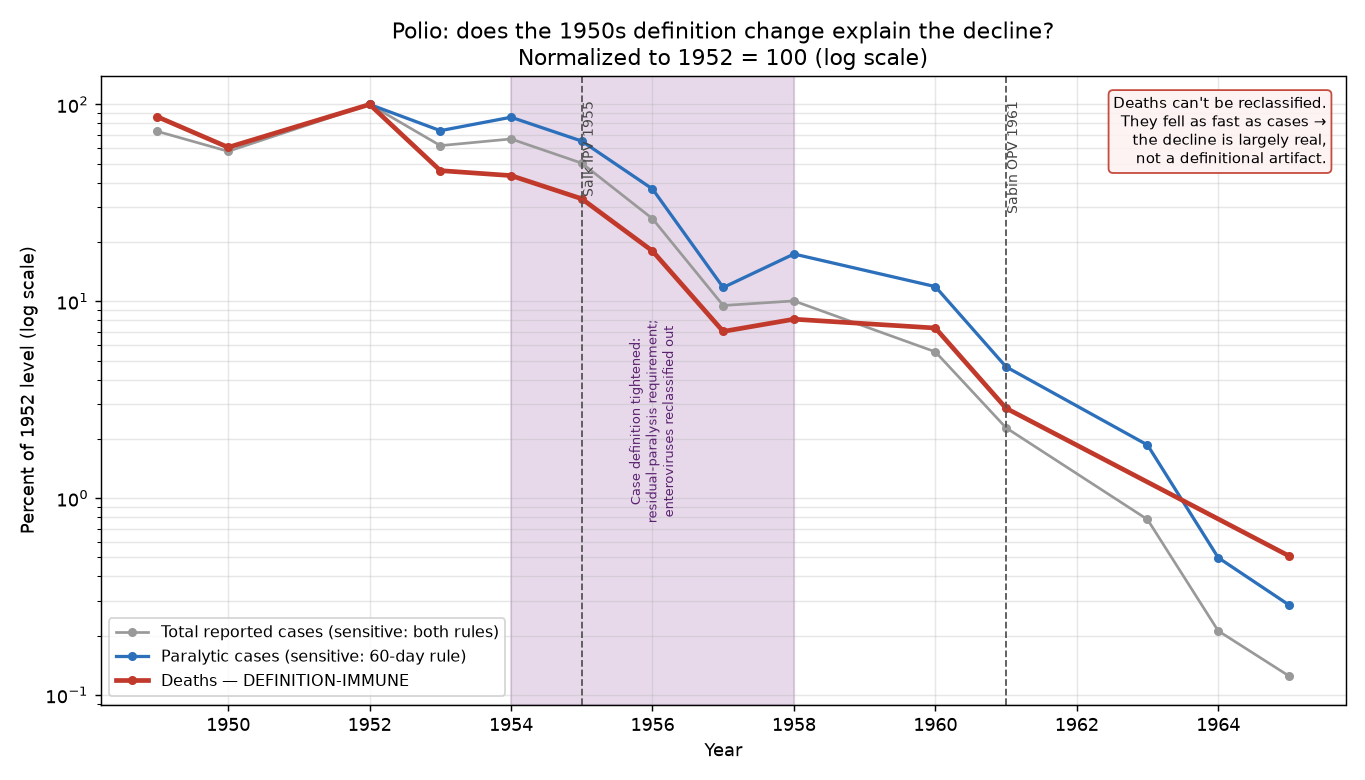
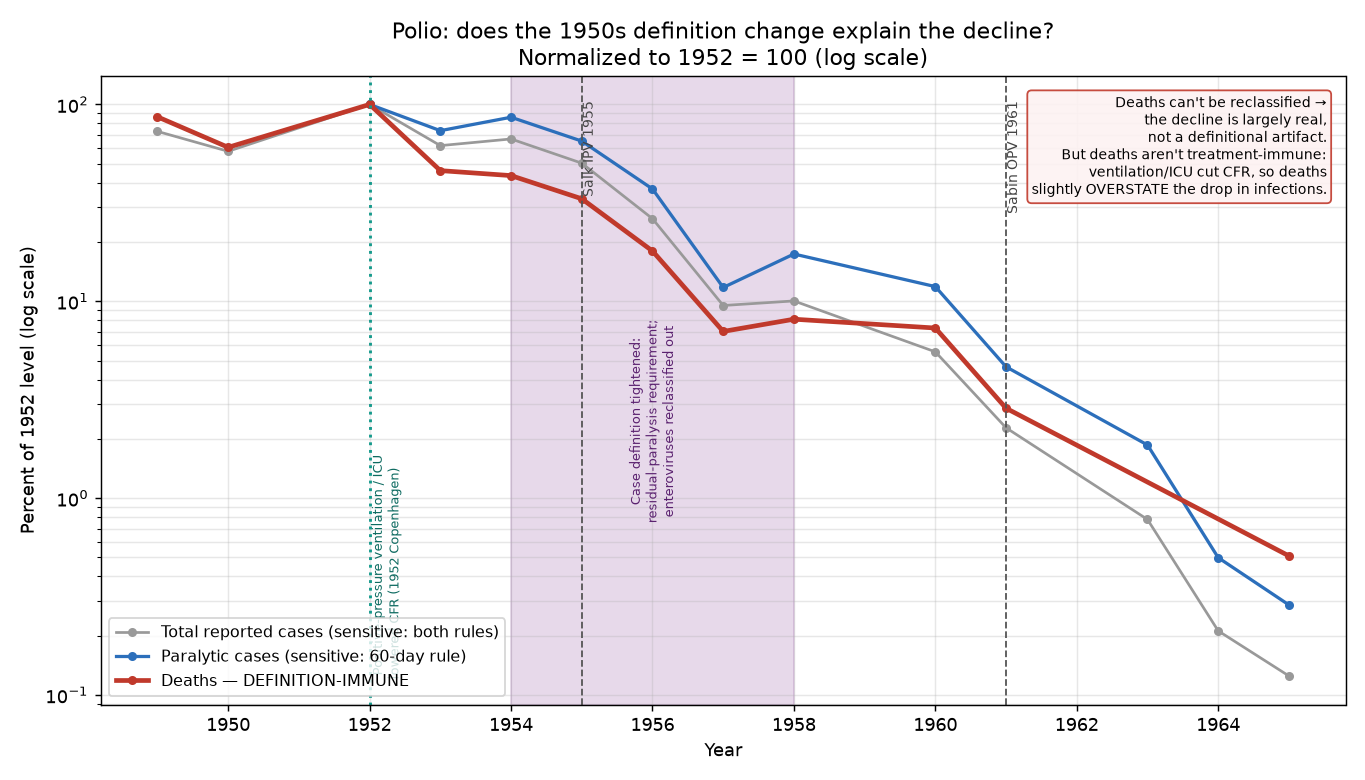
Add medical treatment (ventilation/ICU) as a driver of falling polio deaths
- Treatment milestone marker (1952 positive-pressure ventilation / first ICUs)
  on polio deaths and definition-effect charts
- README 1.5/1.2b: better critical care lowered CFR, an independent reason deaths
  fell; deaths are immune to reclassification but NOT to treatment, so they
  overstate the decline in infections (opposite-direction confounder)
- Updated dashboard caption and final "strongly supported" conclusions

Changed region(s): [[0.7385, 0.0923, 0.9846, 0.2769], [0.2769, 0.5846, 0.3077, 0.8]]

diff --git a/docs/index.html b/docs/index.html
@@ -101,8 +101,12 @@
       deaths fall as fast as — or faster than — paralytic cases, and the
       case-fatality rate does <em>not</em> jump. That means the definition change
       is real but accounts for only a <strong>minority</strong> of the decline;
-      the bulk is genuine. (It still cannot, by itself, split the real decline
-      between vaccine and other factors at the 1955 inflection — see the
+      the bulk is genuine. <strong>One caveat:</strong> deaths aren't
+      treatment-immune — <strong>positive-pressure ventilation / the first ICUs
+      (1952)</strong> cut the fatality rate, so the death decline partly reflects
+      better care and slightly overstates the fall in infections. (Even so, this
+      cannot by itself split the real decline between vaccine and other factors at
+      the 1955 inflection — see the
       <a href="https://github.com/markbabbe/us-disease-trends-analysis/blob/main/README.md#12b-capturing-the-effect-of-the-polio-definition-change">README write-up</a>.)</p>
     <img src="polio_definition_effect.png" alt="Polio definition-change effect: normalized cases vs definition-immune deaths"
          style="width:100%;border-radius:8px;display:block;" />

diff --git a/scripts/generate_charts.py b/scripts/generate_charts.py
@@ -83,6 +83,20 @@ def add_definition_marker(ax, disease):
             fontsize=7, color="#5b2270", transform=trans, zorder=5)
 
 
+# Treatment milestones that lowered case fatality independent of incidence.
+TREATMENT = {
+    "polio": [(1952, "Positive-pressure ventilation / ICU\nlowered CFR (1952 Copenhagen)")],
+}
+
+
+def add_treatment_marker(ax, disease):
+    trans = ax.get_xaxis_transform()
+    for yr, label in TREATMENT.get(disease, []):
+        ax.axvline(yr, color="#159a8c", linestyle=":", linewidth=1.6)
+        ax.text(yr, 0.04, " " + label, rotation=90, ha="left", va="bottom",
+                fontsize=7, color="#0e6b61", transform=trans, zorder=5)
+
+
 def drop_zeros(yrs, vals):
     """Log scale cannot show zeros; drop those points."""
     pairs = [(y, v) for y, v in zip(yrs, vals) if v and v > 0]
@@ -140,6 +154,7 @@ def deaths_chart(disease, rows, title):
     ax.grid(True, alpha=0.3)
     add_vaccine_lines(ax, disease)
     add_definition_marker(ax, disease)
+    add_treatment_marker(ax, disease)
     fig.tight_layout()
     p = os.path.join(OUT, f"{disease}_deaths.png")
     fig.savefig(p, dpi=130)
@@ -312,6 +327,7 @@ def polio_definition_effect():
                 label=label, markersize=4, linewidth=lw)
     ax.set_yscale("log")
     add_definition_marker(ax, "polio")
+    add_treatment_marker(ax, "polio")
     for yr, lab in [(1955, "Salk IPV"), (1961, "Sabin OPV")]:
         ax.axvline(yr, color="#555", linestyle="--", linewidth=1)
         ax.text(yr, 0.96, f" {lab} {yr}", rotation=90, va="top", fontsize=8,
@@ -323,8 +339,8 @@ def polio_definition_effect():
     ax.grid(True, which="both", alpha=0.3)
     ax.legend(loc="lower left", fontsize=9)
     ax.text(0.985, 0.97,
-            "Deaths can't be reclassified.\nThey fell as fast as cases →\nthe decline is largely real,\nnot a definitional artifact.",
-            transform=ax.transAxes, ha="right", va="top", fontsize=8.5,
+            "Deaths can't be reclassified →\nthe decline is largely real,\nnot a definitional artifact.\nBut deaths aren't treatment-immune:\nventilation/ICU cut CFR, so deaths\nslightly OVERSTATE the drop in infections.",
+            transform=ax.transAxes, ha="right", va="top", fontsize=8,
             bbox=dict(boxstyle="round", fc="#fdf2f2", ec="#c0392b", alpha=0.9))
     fig.tight_layout()
     p = os.path.join(OUT, "polio_definition_effect.png")

diff --git a/README.md b/README.md
@@ -172,6 +172,15 @@ Two observations that *constrain* the artifact:
   definition. The decisive evidence for a vaccine effect is the *sustained* fall
   to near-zero through the 1960s, which neither epidemic cycling nor a one-time
   definition change explains.
+- **Honest limitation #3 (deaths aren't treatment-immune):** the death anchor
+  rules out a *reclassification* artifact, but deaths are still lowered by
+  **improved treatment** (positive-pressure ventilation / ICU after 1952; see
+  §1.5). That is precisely *why* deaths fell slightly faster than paralytic cases
+  here — better critical care, plus 1952 being an unusually lethal epidemic year.
+  The implication: **deaths somewhat overstate the decline in true infections**,
+  the opposite-direction confounder to the case-definition change. Reading cases
+  and deaths *together*, with both confounders in mind, is the only honest
+  approach.
 - **Not determinable:** a precise percentage decomposition ("X% definition, Y%
   vaccine, Z% epidemic variation") cannot be recovered from these aggregate
   series.
@@ -204,11 +213,19 @@ clean age breakdowns needed to do this rigorously.
   [`charts/polio_deaths.png`](charts/polio_deaths.png)).
 - **Paralysis with residual deficit:** the clinical hallmark; tracked closely
   with deaths.
-- **Case fatality rate:** paralytic polio CFR was roughly **5–10%** (higher for
-  bulbar disease), and itself improved with the advent of mechanical ventilation
-  (the "iron lung," 1930s onward) and intensive respiratory care — i.e., *better
-  treatment lowered CFR even before vaccination*, an important confounder when
-  comparing severity across eras.
+- **Case fatality rate:** paralytic polio CFR was roughly **5–10%** (much higher
+  for bulbar disease). Critically, **a large independent reason polio deaths fell
+  was better treatment, not just fewer infections.** The negative-pressure "iron
+  lung" (1928 onward) kept respiratory-paralysis patients alive, and the **1952
+  Copenhagen epidemic** introduced **positive-pressure ventilation** — widely
+  regarded as the birth of the modern intensive-care unit — which cut bulbar-polio
+  mortality dramatically. In the U.S. data, CFR (deaths ÷ paralytic cases)
+  roughly **halved from ~15% in the 1952 epidemic peak to ~7% by 1954–55** and
+  stayed there. So deaths were falling partly because *treatment improved*, a
+  confounder that operates in the **opposite direction** from the case-definition
+  artifact: the definition change makes the case decline look bigger, while
+  better treatment makes the death decline look bigger than the underlying
+  decline in infections.
 - **IFR:** not reliably estimable historically — the great majority of polio
   infections were asymptomatic or minor, and the asymptomatic denominator was
   never measured at population scale before serosurveys.
@@ -581,9 +598,12 @@ incidence comparison across the post-licensure era.
 - **Wild poliovirus transmission and endemic measles transmission were
   eliminated in the U.S.** (1979 and 2000 respectively) — discrete, well-
   documented events.
-- **Case fatality fell substantially *before* vaccines** for measles and
-  pertussis, driven by antibiotics, nutrition, and supportive/critical care.
-  Medical progress is a genuine, independent contributor to falling deaths.
+- **Case fatality fell substantially because of medical progress, partly
+  independent of vaccines** — antibiotics, nutrition, and supportive care for
+  measles and pertussis, and, for polio, **mechanical ventilation and the first
+  intensive-care units (positive-pressure ventilation, 1952)**. Medical progress
+  is a genuine, independent contributor to falling deaths, so death declines
+  overstate the decline in infections.
 - **Raw case counts are not comparable across eras** for any of the three
   diseases, because case definitions and diagnostics changed materially.
 